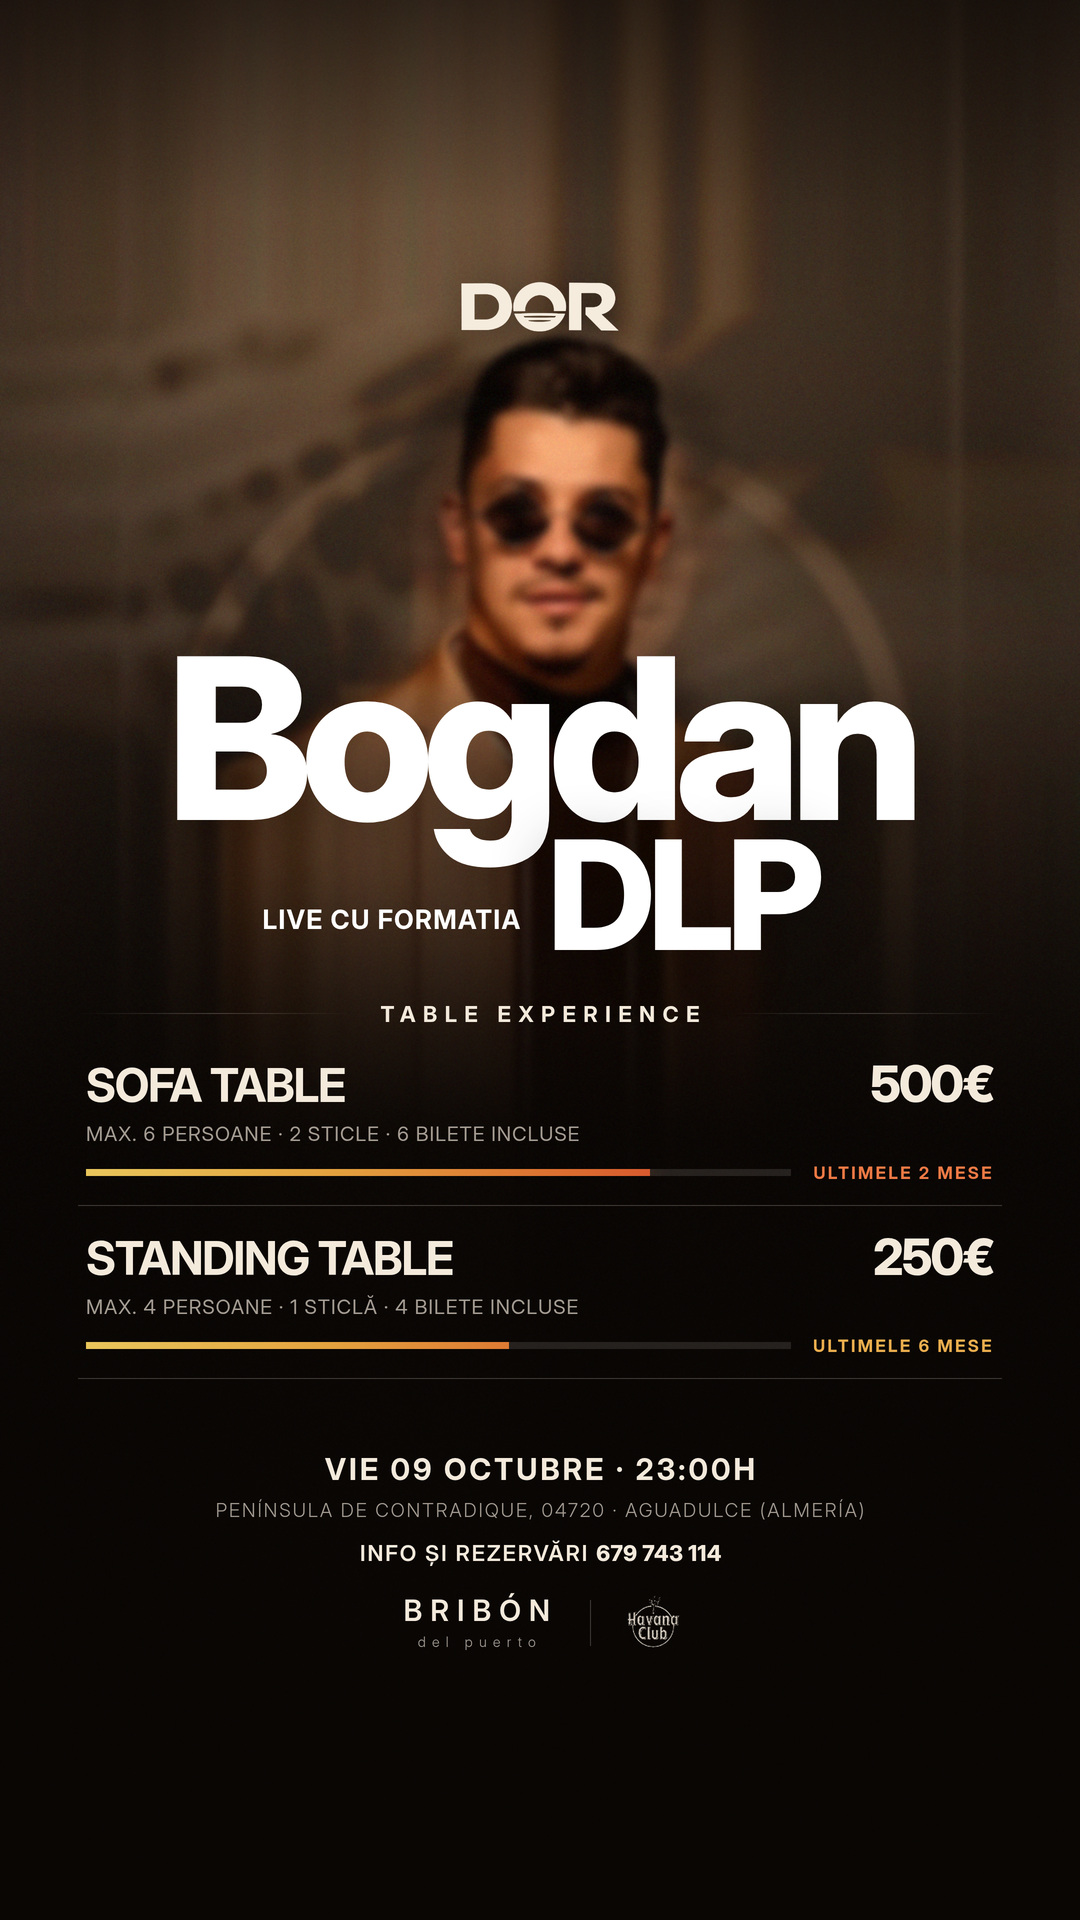
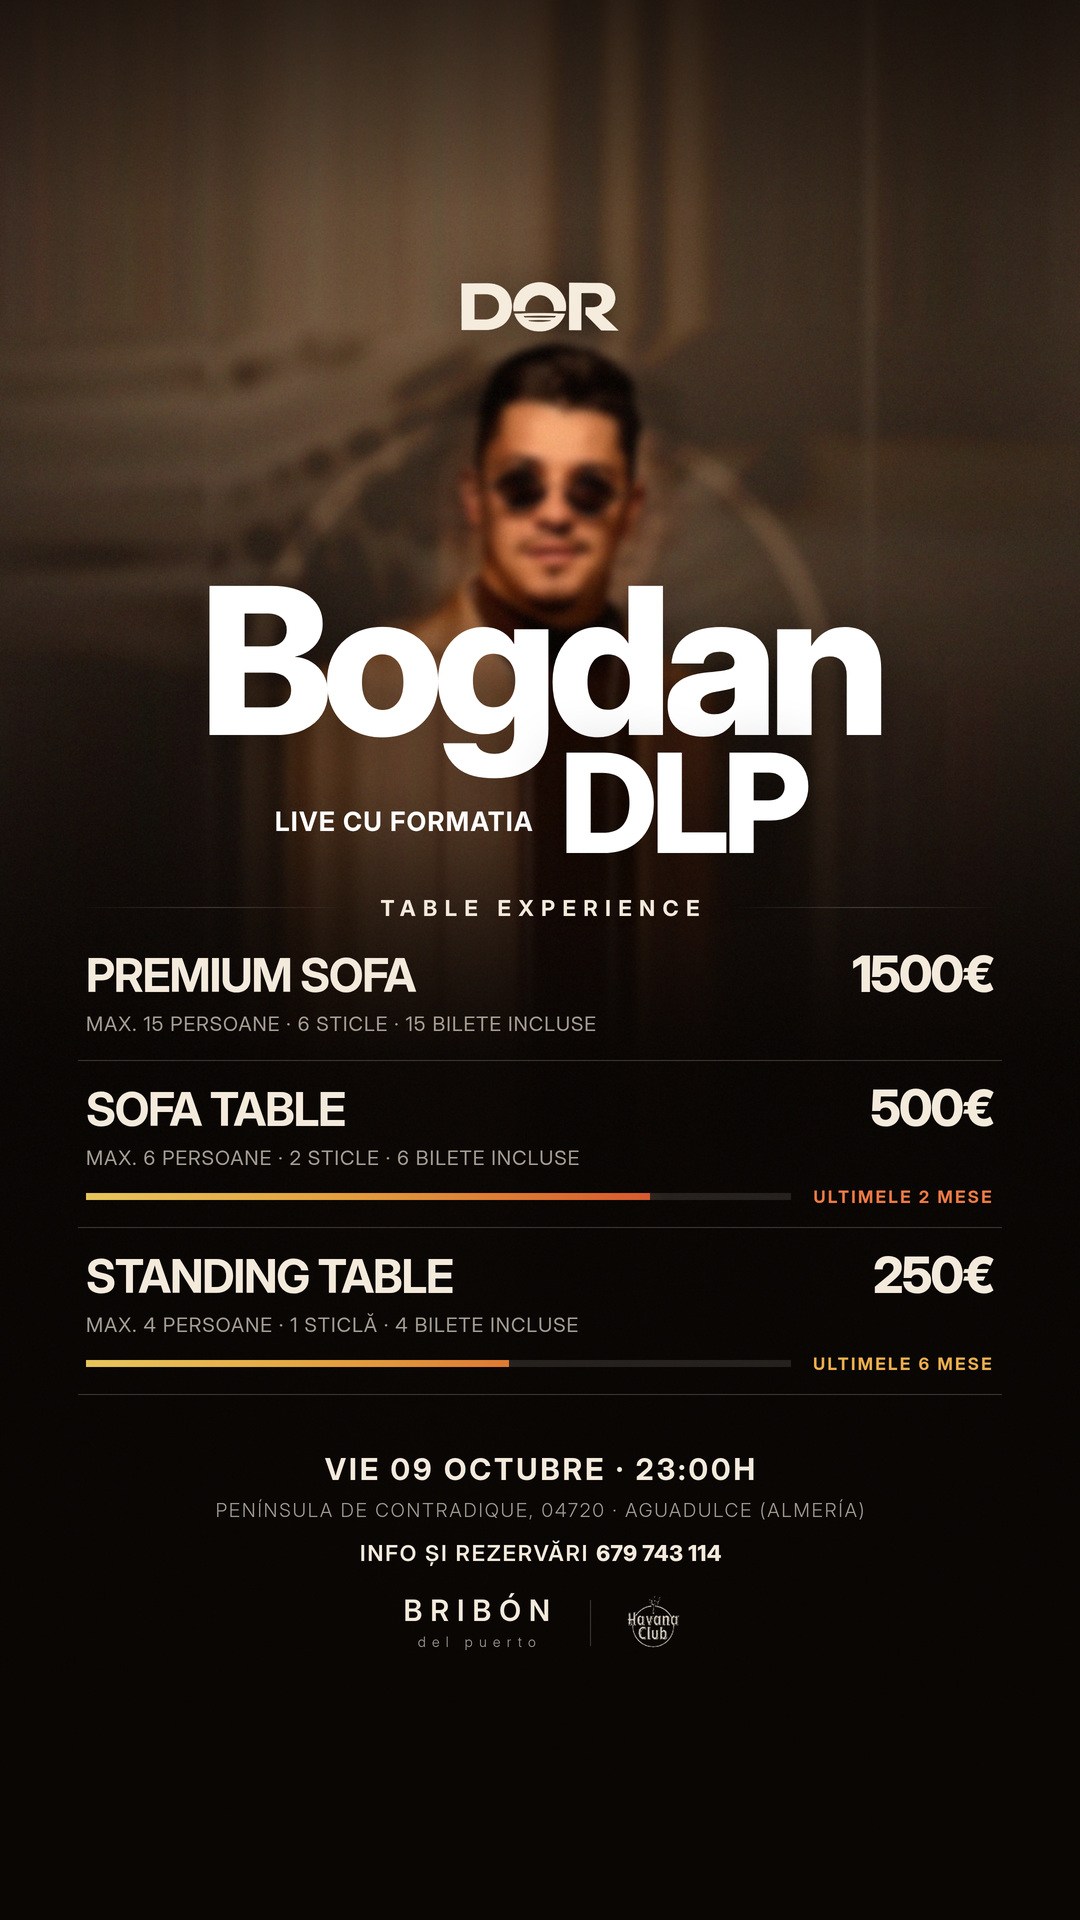
design: add the PREMIUM SOFA tier at the top of the table list
PREMIUM SOFA, 1500 EUR, max. 15 people, 6 bottles, 15 tickets included,
placed first so the three tiers read in descending price order.

No remaining-table count was given for it, so the row carries name, price
and specs but no availability bar; the README says how to add one later.
Both formats were re-flowed for the third row — the portrait band is
tighter and make_bg.py rescales the photo so the face still clears the
artist lockup.

Claude-Session: https://claude.ai/code/session_018LVxPFaAmNJPzujNDfX4Ru

Changed region(s): [[0.0611, 0.0938, 0.9167, 0.7188], [0.3361, 0.1875, 0.3972, 0.2188], [0.3972, 0.5312, 0.4278, 0.5625]]

diff --git a/design/dor-mese/mese.html b/design/dor-mese/mese.html
@@ -37,24 +37,24 @@
   .brand img{height:100%;display:block;filter:drop-shadow(0 6px 26px rgba(0,0,0,.6))}
 
   /* spatiul in care se vede artistul, ca pe afis */
-  .portrait{height:230px;flex:none}
+  .portrait{height:176px;flex:none}
 
   /* ---------- numele artistului, ca pe afis ---------- */
   .artist{width:100%;color:var(--white)}
-  .artist .a1{font-weight:800;font-size:210px;letter-spacing:-.052em;line-height:.80;text-align:center;
+  .artist .a1{font-weight:800;font-size:196px;letter-spacing:-.052em;line-height:.80;text-align:center;
     text-shadow:0 10px 60px rgba(0,0,0,.45)}
   .artist .a2{margin-top:2px;display:flex;align-items:flex-end;justify-content:center;gap:26px}
   .artist .live{font-weight:700;font-size:26px;letter-spacing:.055em;padding-bottom:26px;white-space:nowrap}
-  .artist .dlp{font-weight:800;font-size:142px;letter-spacing:-.045em;line-height:.86;
+  .artist .dlp{font-weight:800;font-size:132px;letter-spacing:-.045em;line-height:.86;
     text-shadow:0 10px 60px rgba(0,0,0,.45)}
 
   /* ---------- sectiunea de mese ---------- */
-  .section{margin-top:40px;display:flex;align-items:center;gap:22px;width:100%}
+  .section{margin-top:32px;display:flex;align-items:center;gap:22px;width:100%}
   .section .rule{flex:1;height:1px;background:linear-gradient(90deg,transparent,var(--line),transparent)}
   .section span{font-weight:700;font-size:22px;letter-spacing:.34em;text-indent:.34em;white-space:nowrap}
 
   .tables{margin-top:6px;width:100%}
-  .t{padding:26px 8px 22px;border-bottom:1px solid var(--line)}
+  .t{padding:22px 8px 20px;border-bottom:1px solid var(--line)}
   .row{display:flex;align-items:baseline;justify-content:space-between;gap:24px}
   .name{font-weight:700;font-size:46px;letter-spacing:-.025em;line-height:1;white-space:nowrap}
   .price{font-weight:800;font-size:50px;letter-spacing:-.035em;line-height:1}
@@ -66,6 +66,7 @@
   .fill{position:absolute;left:0;top:0;bottom:0;overflow:hidden}
   .fill i{position:absolute;left:0;top:0;bottom:0;background:var(--heat);display:block}
   .pct{font-weight:700;font-size:17px;letter-spacing:.14em;text-indent:.14em;white-space:nowrap}
+  .t.premium{padding-bottom:24px}
   .t.hot .fill{box-shadow:0 0 22px rgba(220,111,48,.5)}
   .t.hot .pct{color:var(--hot)}
   .t:not(.hot) .pct{color:var(--warm)}
@@ -111,6 +112,11 @@
     </div>
 
     <div class="tables">
+      <div class="t premium">
+        <div class="row"><div class="name">PREMIUM SOFA</div><div class="price">1500€</div></div>
+        <div class="specs">MAX. 15 PERSOANE · 6 STICLE · 15 BILETE INCLUSE</div>
+      </div>
+
       <div class="t hot">
         <div class="row"><div class="name">SOFA TABLE</div><div class="price">500€</div></div>
         <div class="specs">MAX. 6 PERSOANE · 2 STICLE · 6 BILETE INCLUSE</div>

diff --git a/design/dor-mese/mese_story.html b/design/dor-mese/mese_story.html
@@ -37,24 +37,24 @@
   .brand img{height:100%;display:block;filter:drop-shadow(0 6px 26px rgba(0,0,0,.6))}
 
   /* spatiul in care se vede artistul, ca pe afis */
-  .portrait{height:300px;flex:none}
+  .portrait{height:230px;flex:none}
 
   /* ---------- numele artistului, ca pe afis ---------- */
   .artist{width:100%;color:var(--white)}
-  .artist .a1{font-weight:800;font-size:225px;letter-spacing:-.052em;line-height:.80;text-align:center;
+  .artist .a1{font-weight:800;font-size:205px;letter-spacing:-.052em;line-height:.80;text-align:center;
     text-shadow:0 10px 60px rgba(0,0,0,.45)}
   .artist .a2{margin-top:2px;display:flex;align-items:flex-end;justify-content:center;gap:26px}
   .artist .live{font-weight:700;font-size:26px;letter-spacing:.055em;padding-bottom:26px;white-space:nowrap}
-  .artist .dlp{font-weight:800;font-size:152px;letter-spacing:-.045em;line-height:.86;
+  .artist .dlp{font-weight:800;font-size:138px;letter-spacing:-.045em;line-height:.86;
     text-shadow:0 10px 60px rgba(0,0,0,.45)}
 
   /* ---------- sectiunea de mese ---------- */
-  .section{margin-top:40px;display:flex;align-items:center;gap:22px;width:100%}
+  .section{margin-top:32px;display:flex;align-items:center;gap:22px;width:100%}
   .section .rule{flex:1;height:1px;background:linear-gradient(90deg,transparent,var(--line),transparent)}
   .section span{font-weight:700;font-size:22px;letter-spacing:.34em;text-indent:.34em;white-space:nowrap}
 
   .tables{margin-top:6px;width:100%}
-  .t{padding:26px 8px 22px;border-bottom:1px solid var(--line)}
+  .t{padding:22px 8px 20px;border-bottom:1px solid var(--line)}
   .row{display:flex;align-items:baseline;justify-content:space-between;gap:24px}
   .name{font-weight:700;font-size:46px;letter-spacing:-.025em;line-height:1;white-space:nowrap}
   .price{font-weight:800;font-size:50px;letter-spacing:-.035em;line-height:1}
@@ -66,6 +66,7 @@
   .fill{position:absolute;left:0;top:0;bottom:0;overflow:hidden}
   .fill i{position:absolute;left:0;top:0;bottom:0;background:var(--heat);display:block}
   .pct{font-weight:700;font-size:17px;letter-spacing:.14em;text-indent:.14em;white-space:nowrap}
+  .t.premium{padding-bottom:24px}
   .t.hot .fill{box-shadow:0 0 22px rgba(220,111,48,.5)}
   .t.hot .pct{color:var(--hot)}
   .t:not(.hot) .pct{color:var(--warm)}
@@ -111,6 +112,11 @@
     </div>
 
     <div class="tables">
+      <div class="t premium">
+        <div class="row"><div class="name">PREMIUM SOFA</div><div class="price">1500€</div></div>
+        <div class="specs">MAX. 15 PERSOANE · 6 STICLE · 15 BILETE INCLUSE</div>
+      </div>
+
       <div class="t hot">
         <div class="row"><div class="name">SOFA TABLE</div><div class="price">500€</div></div>
         <div class="specs">MAX. 6 PERSOANE · 2 STICLE · 6 BILETE INCLUSE</div>

diff --git a/design/dor-mese/make_bg.py b/design/dor-mese/make_bg.py
@@ -37,6 +37,6 @@ def build(W, H, scale, head_y, fade_start, fade_end, top_dark=0.34):
     return Image.fromarray(a)
 
 if __name__ == '__main__':
-    build(1080, 1440, 0.68,  88, 372,  800).save('assets/bg.png')
-    build(1080, 1920, 0.78, 308, 640, 1140, top_dark=0.0).save('assets/bg_story.png')
+    build(1080, 1440, 0.52,  92, 300,  720).save('assets/bg.png')
+    build(1080, 1920, 0.62, 321, 566, 1060, top_dark=0.0).save('assets/bg_story.png')
     print('assets/bg.png + assets/bg_story.png regenerate')

diff --git a/design/dor-mese/README.md b/design/dor-mese/README.md
@@ -40,8 +40,11 @@ micșoreaz-o la dimensiunea nominală (Lanczos) înainte de publicare.
   în subsol, alături de Havana Club.
 - Mesele sunt rânduri separate de o linie subțire, fără casete — ca să nu încarce
   imaginea sub titraj.
+- Trei niveluri, în ordinea descrescătoare a prețului: PREMIUM SOFA 1500€,
+  SOFA TABLE 500€, STANDING TABLE 250€.
 - Disponibilitatea se comunică prin numărul de mese rămase („ULTIMELE 2 MESE",
-  „ULTIMELE 6 MESE"), nu prin procent.
+  „ULTIMELE 6 MESE"), nu prin procent. PREMIUM SOFA nu are încă bandă de
+  ocupare — se adaugă când se știe câte mese premium sunt disponibile.
 - Banda de ocupare folosește o scară de căldură comună celor două carduri:
   auriu `#E9C65C` → chihlimbar `#E4A33F` → portocaliu `#DC6F30` → roșu `#D13B2B`,
   întinsă pe lățimea totală a pistei. Umplerea decupează gradientul la procentul
@@ -64,6 +67,9 @@ micșoreaz-o la dimensiunea nominală (Lanczos) înainte de publicare.
   carduri: `width: 100/procent * 100%` (80% → `125%`, 60% → `166.667%`,
   50% → `200%`, 100% → `100%`).
 - `.pct` → numărul de mese rămase („ULTIMELE 2 MESE").
+
+Ca să primească și PREMIUM SOFA o bandă, scoate clasa `premium` de pe rând și
+adaugă-i același bloc `.bar` ca al celorlalte.
 
 Procentul benzii și numărul de mese sunt valori separate: banda arată cât s-a
 rezervat, textul arată cât a mai rămas. Când se schimbă stocul, actualizează-le
